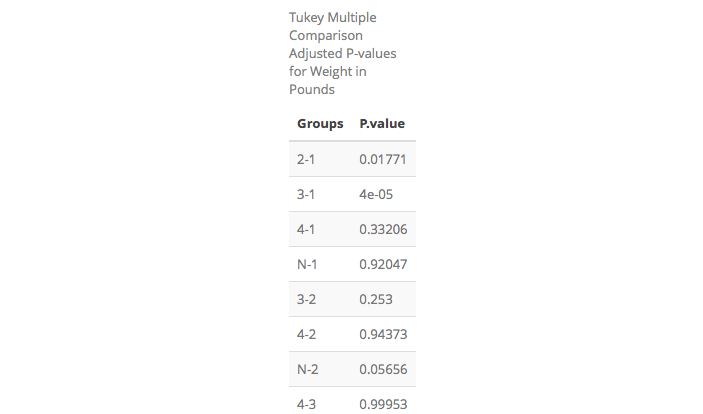
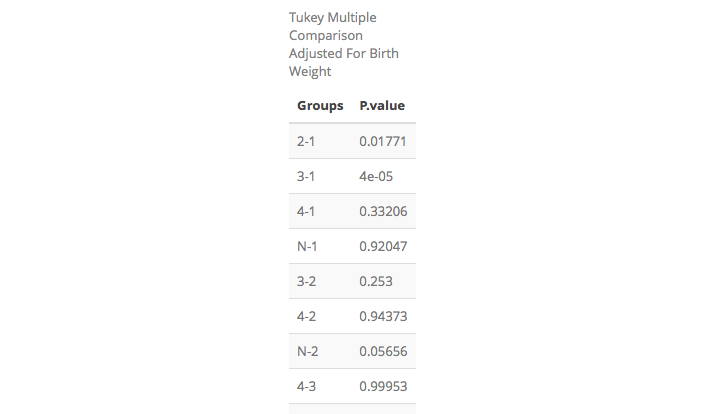
changes

Changed region(s): [[0.3883, 0.1159, 0.5974, 1.0]]

diff --git a/_posts/2019-02-12-kmeans-clustering.md b/_posts/2019-02-12-kmeans-clustering.md
@@ -97,25 +97,8 @@ I included the ANOVA results for all outcome variables.
 
 All three have p-values smaller than 0.05, therefore I used Tukey's Multiple Comparison Correction to identify which clusters differ.
 
-#### Heart Rate
-<img src="{{ site.url }}{{ site.baseurl }}/images/TUKEY_HRmean.png" alt="" class="center">
-
-#### Gestational Age
+#### Heart Rate, Gestational Age, and Birth Weight
 <img src="{{ site.url }}{{ site.baseurl }}/images/TUKEY_GA.png" alt="" class="center">
 
-#### Birth Weight
-<img src="{{ site.url }}{{ site.baseurl }}/images/TUKEY_Weight.png" alt="" class="center">
-
-<div class="row">
-  <div class="column">
-    <img src="{{ site.url }}{{ site.baseurl }}/images/TUKEY_HRmean.png" alt="Heart Rate" style="width:100%">
-  </div>
-  <div class="column">
-    <img src="{{ site.url }}{{ site.baseurl }}/images/TUKEY_GA.png" alt="Gestational Age" style="width:100%">
-  </div>
-  <div class="column">
-    <img src="{{ site.url }}{{ site.baseurl }}/images/TUKEY_HRmean.png" alt="Birth Weight" style="width:100%">
-  </div>
-</div>
 
 From the tables, it is
